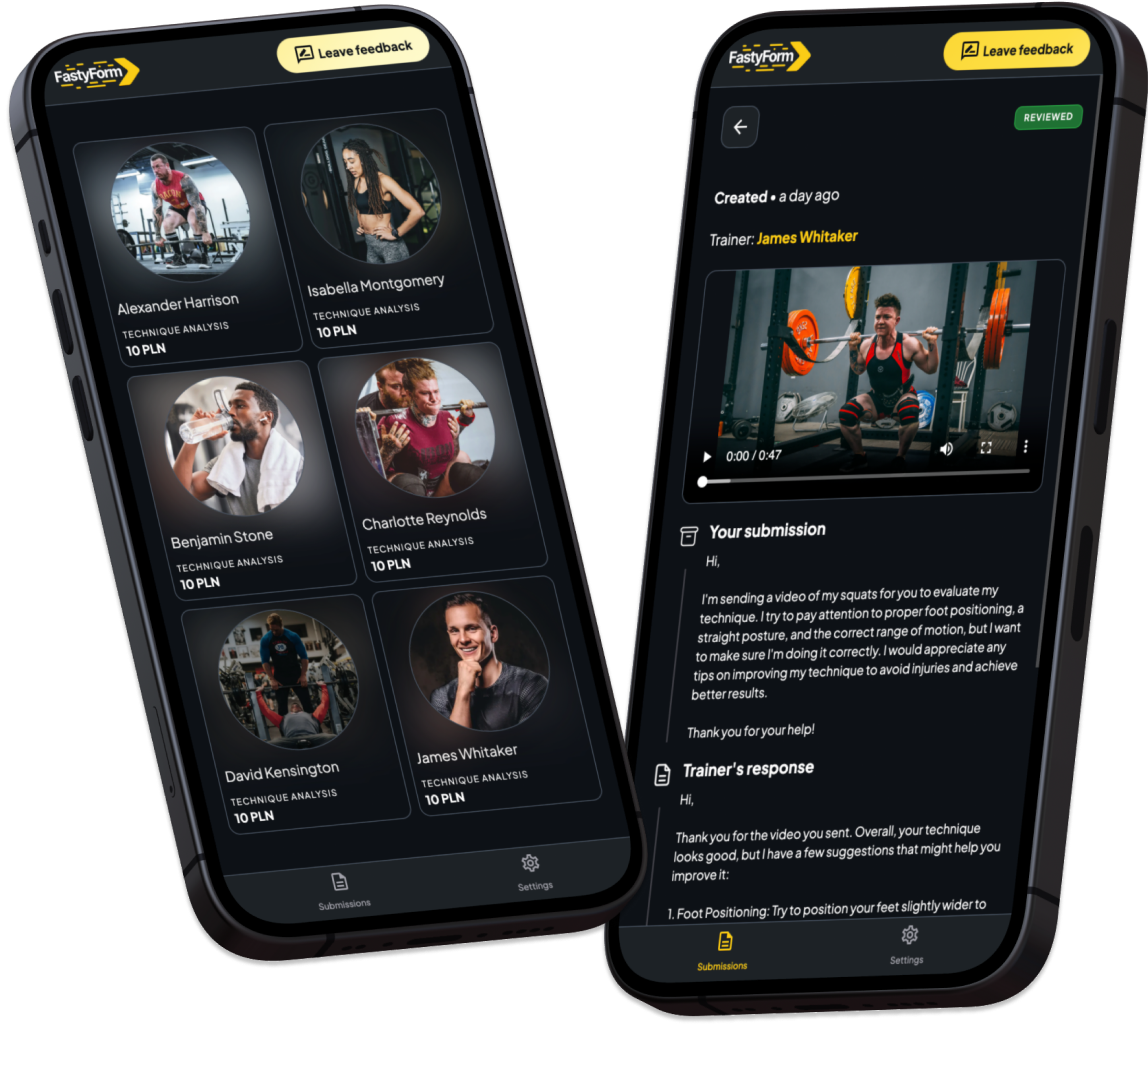
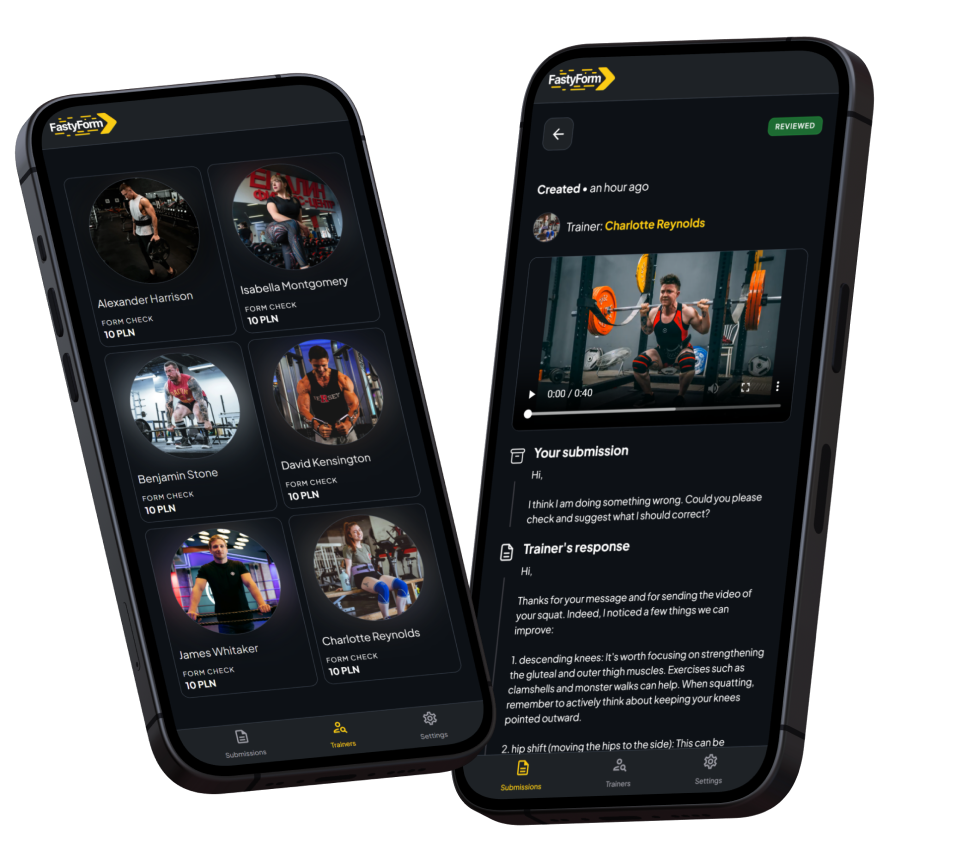
refactor(home): images changes

diff --git a/src/app/[locale]/(public)/(home)/page.tsx b/src/app/[locale]/(public)/(home)/page.tsx
@@ -174,7 +174,7 @@ const HomePage = ({ params: { locale } }: { params: { locale: Locale } }) => {
             className="w-[241px] self-center xl:w-[337px]"
             height={1520 * 0.5}
             quality={100}
-            src={`/home/iphone-app-onboarding-${locale}.png`}
+            src={`/home/how-it-works-${locale}.png`}
             width={817 * 0.5}
           />
         </PublicContainer.Content>
